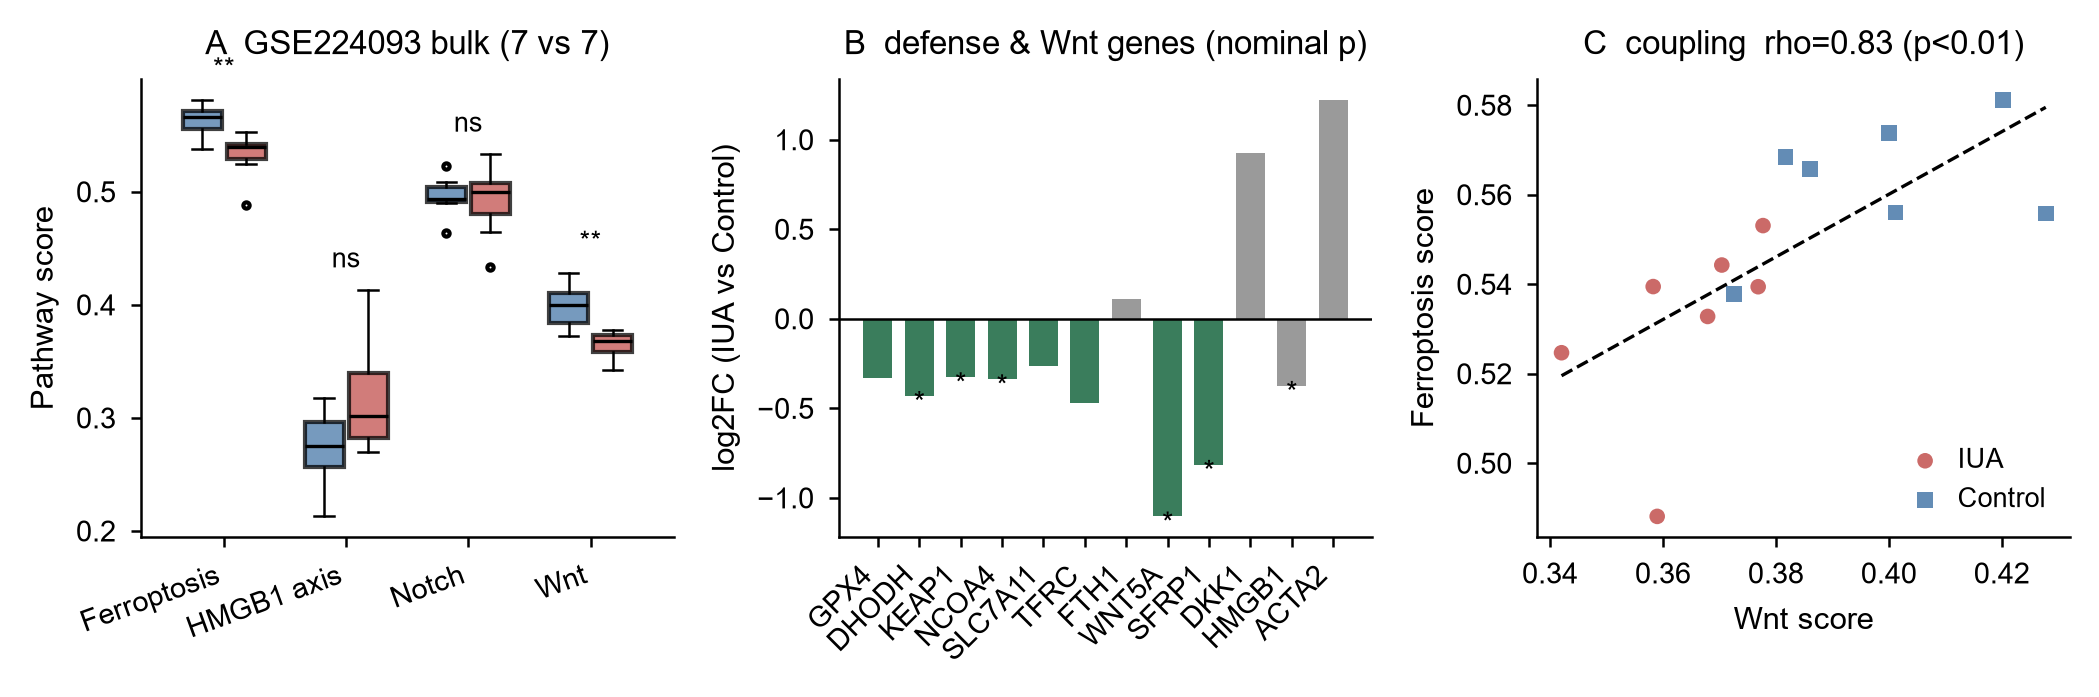
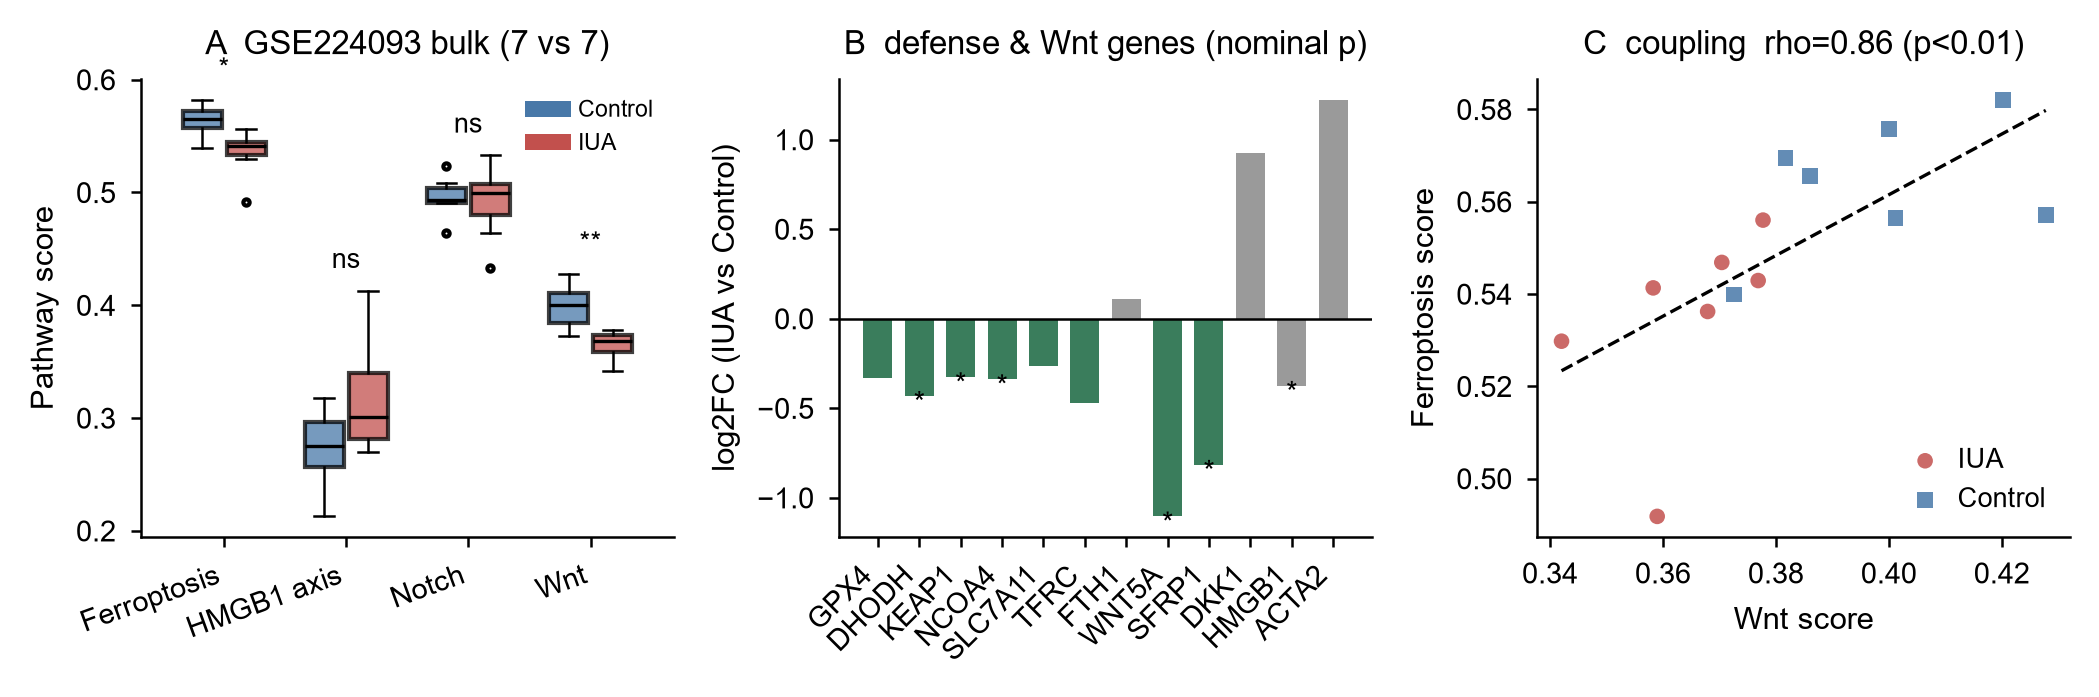
Fix FANCD2 duplicate in 64-gene panel: rerun bulk stats (0.535 vs 0.564, p=0.0118), fix README wording, add Fig2/3/5 legends

diff --git a/README.md b/README.md
@@ -40,7 +40,7 @@ figures/    publication figures (300 dpi PNG)
 
 ## Key findings (summary)
 
-1. **Bulk (GSE224093):** ferroptosis activity elevated, defenses not compensating (0.532 vs 0.563, p = 0.0087, padj = 0.0175); only 4 DEGs at padj < 0.05 & \|log2FC\| > 0.5 — the signal is pathway-level, not single-gene.
+1. **Bulk (GSE224093):** ferroptosis pathway activity is **reduced**, not elevated, with defenses not compensating (0.535 vs 0.564, p = 0.0118, padj = 0.0235); only 4 DEGs at padj < 0.05 & \|log2FC\| > 0.5 — the signal is pathway-level, not single-gene.
 2. **Single-cell (GSE215968):** epithelium is the only major cell type with a dual hit (activity +0.145 / defense −0.244, both padj ≈ 0); macrophages are the dominant myeloid iron sink (+0.163, padj = 2.5e-5); ferroptosis–inflammation coupling strongest in macrophages (ρ = 0.30) and dendritic cells (ρ = 0.31).
 3. **HMGB1 axis:** epithelial HMGB1 down (−0.155) with myeloid activation (DC +0.291, Mac +0.114) — consistent with release-and-uptake redistribution.
 4. **Therapy cohort (GSE311899, 236,867 cells, 8 epithelial + 9 stromal pairs):** epithelial defenses do **not** recover at mRNA level (Δ −0.016, p = 0.46); stromal pro-ferroptotic (+0.487, p = 0.027) and defensive (+0.279, p = 0.039) modules rise in parallel, interpreted as regenerative transcriptional rebound (hypothesis-generating only). Reported transparently as a negative result for epithelial defense recovery.
